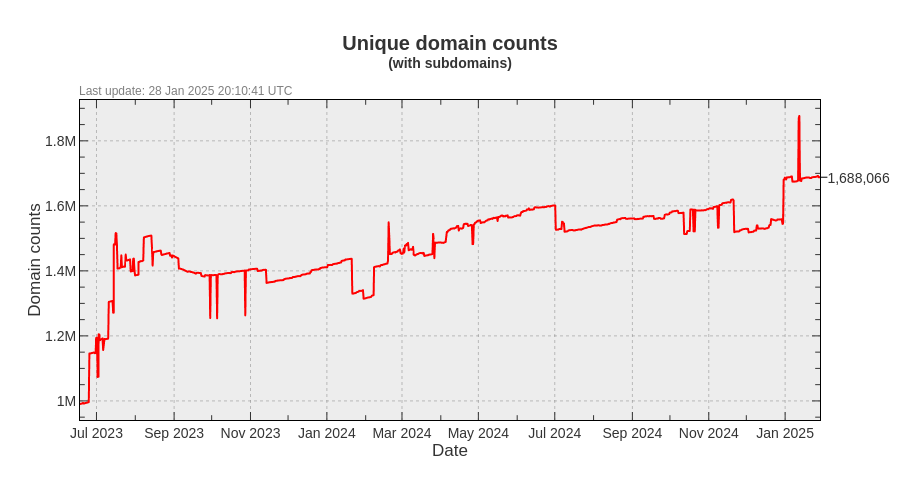
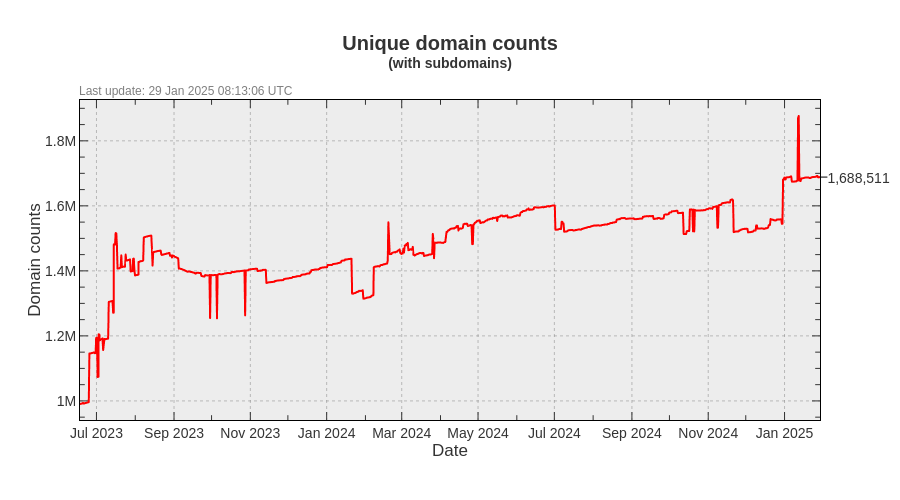
Update pages

diff --git a/README.md b/README.md
@@ -3,22 +3,22 @@ A blacklist file for blocking ads, trackers and malware domains.
 
[1 lines of base64/hex data omitted]
 
-- Unique domains: 1,688,066
-- Without subdomains: 1,031,218
-- Last update: 28 Jan 2025 20:10:41 UTC
-- Version: 2025.01.28.03
+- Unique domains: 1,688,511
+- Without subdomains: 1,031,607
+- Last update: 29 Jan 2025 08:13:06 UTC
+- Version: 2025.01.29.01
 
 
 ### Downloads:
 
 | Format             | Domain count      | Download Link |
 |:------------------ | -----------------:|:-------------:|
-| *Adblock Plus*     | 1,031,218 | [Download](https://dl.cenk.app/bad-hosts/bad-hosts-abp) |
-| *Wildcard domains* | 1,031,218 | [Download](https://dl.cenk.app/bad-hosts/bad-hosts-wildcard) |
-| *dnsmasq*          | 1,031,218 | [Download](https://dl.cenk.app/bad-hosts/bad-hosts-dnsmasq) |
-| *Unbound*          | 1,031,218 | [Download](https://dl.cenk.app/bad-hosts/bad-hosts-unbound) |
-| *hosts*            | 1,688,066 | [Download](https://dl.cenk.app/bad-hosts/hosts) |
-| *hosts (ipv6)*     | 1,688,066 | [Download](https://dl.cenk.app/bad-hosts/hosts-ipv6) |
-| *Plain domains*    | 1,688,066 | [Download](https://dl.cenk.app/bad-hosts/bad-hosts-domains) |
+| *Adblock Plus*     | 1,031,607 | [Download](https://dl.cenk.app/bad-hosts/bad-hosts-abp) |
+| *Wildcard domains* | 1,031,607 | [Download](https://dl.cenk.app/bad-hosts/bad-hosts-wildcard) |
+| *dnsmasq*          | 1,031,607 | [Download](https://dl.cenk.app/bad-hosts/bad-hosts-dnsmasq) |
+| *Unbound*          | 1,031,607 | [Download](https://dl.cenk.app/bad-hosts/bad-hosts-unbound) |
+| *hosts*            | 1,688,511 | [Download](https://dl.cenk.app/bad-hosts/hosts) |
+| *hosts (ipv6)*     | 1,688,511 | [Download](https://dl.cenk.app/bad-hosts/hosts-ipv6) |
+| *Plain domains*    | 1,688,511 | [Download](https://dl.cenk.app/bad-hosts/bad-hosts-domains) |
 
 
